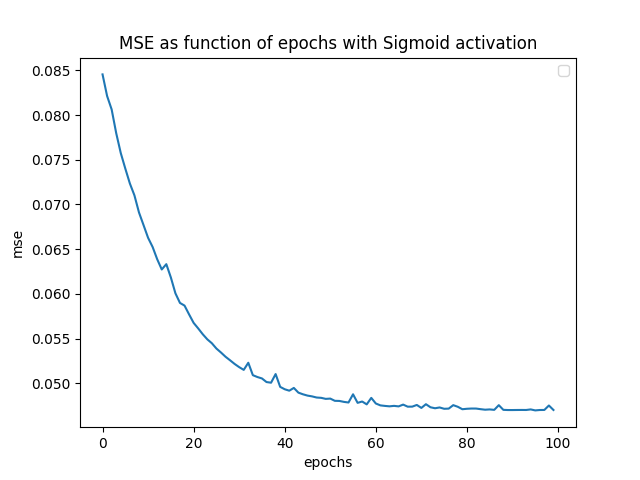
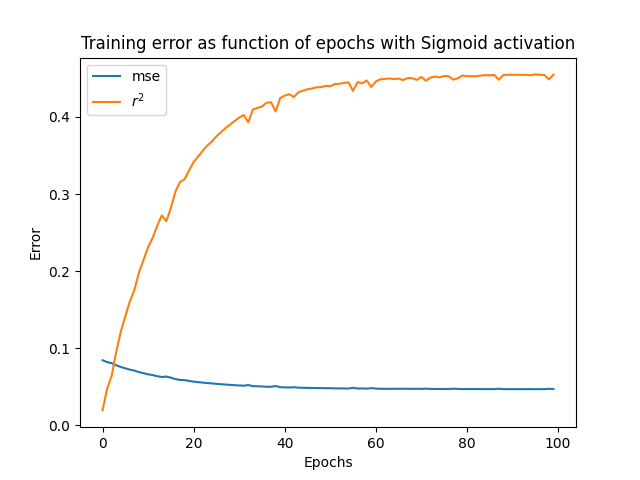
mykjy tull

diff --git a/project2/nnRegression.py b/project2/nnRegression.py
@@ -7,18 +7,23 @@ from sklearn.preprocessing import StandardScaler
 from sklearn.neural_network import MLPRegressor
 import pandas as pd
 import seaborn as sns
+from sklearn.model_selection import KFold
 
 class NN:
     def __init__(self,
                  X_train,
-                 targets,
+                 X_test,
+                 z_train,
+                 z_test,
                  n_hidden_layers,
                  n_hidden_neurons,
                  activation,
                  initilize):
 
         self.X_train = X_train
-        self.t = targets
+        self.X_test = X_test
+        self.z_train = z_train
+        self.z_test = z_test
 
         self.n_inputs, self.n_features = self.X_train.shape
         self.n_outputs = 1  # Binary classification case
@@ -45,6 +50,7 @@ class NN:
         self.biases = self.createBiases()
 
         self.mse = []
+        self.r2 = []
         self.epochs = []
 
     def createWeights(self, init):  # Function for creating weight-arrays for all layers
@@ -173,13 +179,11 @@ class NN:
                     gradient_weigths += self.lmd * self.weights[layer]
                 self.weights[layer] = self.weights[layer] - self.eta * gradient_weigths
                 self.biases[layer] = self.biases[layer] - self.eta * gradient_biases
-                print(gradient_weigths)
             else:
                 gradient_weigths = np.matmul(self.activations[layer-1].T, delta_l)
                 gradient_biases = np.sum(delta_l, axis=0)
                 if (self.lmd > 0.0):
                     gradient_weigths += self.lmd * self.weights[layer]
-                print(gradient_weigths)
                 self.weights[layer] = self.weights[layer] - self.eta * gradient_weigths
                 self.biases[layer] = self.biases[layer] - self.eta * gradient_biases
             return
@@ -201,16 +205,19 @@ class NN:
         i = 0
 
         for epoch in range(n_epochs):
-            mini_batches = self.create_miniBatches(self.X_train, self.t, M)
+            mini_batches = self.create_miniBatches(self.X_train, self.z_train, M)
             for mini_batch in mini_batches:
                 self.xi, self.yi = mini_batch
                 self.feed_forward_train()
                 self.back_propagation()
-            ytilde = self.predict(X_train)
-            mse = mean_squared_error(self.t, ytilde)
+            ytilde = self.predict(self.X_test)
+            mse = mean_squared_error(self.z_test, ytilde)
+            r2 = r2_score(self.z_test, ytilde)
             self.epochs.append(i)
             self.mse.append(mse)
+            self.r2.append(r2)
             i += 1
+            print(i)
 
     def predict(self, X): #Function for predicting a binary classification set
         y = self.feed_forward_predict(X);
@@ -255,6 +262,13 @@ scaler_x = scaler.fit(X_train)  # Scaling x-data
 X_train = scaler_x.transform(X_train)
 X_test = scaler_x.transform(X_test)
 
+"""
+# Initialization if CV is used
+z = (FrankeFunction(xflat, yflat) + 0.15*np.random.randn(N*N))
+X = np.hstack((xflat.reshape(-1,1), yflat.reshape(-1,1)))
+scaler = StandardScaler()
+X = scaler.fit(X).transform(X)
+"""
 # Defining the neural network
 n_hidden_neurons = 40
 n_hidden_layers = 2
@@ -273,65 +287,106 @@ print(r2_score(z_test.reshape(-1,1), yPredict))
 
 
 print("Scikit dnn")
-dnn = MLPRegressor(activation='relu', solver='sgd', alpha=0.000001, batch_size=10, learning_rate_init=0.001, max_iter=1000, random_state=0)
+dnn = MLPRegressor(activation='logistic', solver='sgd', alpha=1e-8, batch_size=10, learning_rate_init=0.001, max_iter=100, random_state=64)
 dnn.fit(X_train, z_train)
 zPredict = dnn.predict(X_test)
 print(mean_squared_error(z_test, zPredict))
 print(r2_score(z_test, zPredict))
-"""
-nn_sig_rand = NN(X_train, z_train, n_hidden_layers, n_hidden_neurons, "Sigmoid", "Xavier")
-nn_sig_rand.train(100, 2, 0.001, 1e-8)
-plt.plot(nn_sig_rand.epochs,nn_sig_rand.mse)
-plt.legend()
-plt.xlabel('epochs')
-plt.ylabel('mse')
-plt.title('MSE as function of epochs with Sigmoid activation')
+
+# MSE as function of epochs with cross-validation and sigmoid activation
+cv_split = 0
+k = 5
+mse = np.zeros((k, 100))
+kfold = KFold(n_splits = k, shuffle=True)
+for train_indexes, test_indexes in kfold.split(X):
+        X_train = X[train_indexes]
+        X_test = X[test_indexes]
+        z_train = z[train_indexes]
+        z_test = z[test_indexes]
+
+        network = NN(X_train, z_train, n_hidden_layers, n_hidden_neurons, "Sigmoid", "Xavier")
+        network.train(100, 10, 0.001, 1e-8)
+        z_pred = network.predict(X_train)
+        mse[cv_split,:] = network.mse
+
+        cv_split += 1
+
+mse = np.mean(mse,axis=0)
+plt.plot(network.epochs, mse)
 plt.show()
-"""
+
+
+# MSE as function of epochs with sigmoid activation
+nn_sig_rand = NN(X_train, X_test, z_train, z_test, n_hidden_layers, n_hidden_neurons, "Sigmoid", "Xavier")
+nn_sig_rand.train(100, 10, 0.01, 1e-6)
+print("MSE: ",nn_sig_rand.mse[-1])
+plt.plot(nn_sig_rand.epochs,nn_sig_rand.mse, label='mse')
+plt.legend()
+plt.xlabel('Epochs')
+plt.ylabel('mse error')
+plt.title('Test mse error as function of epochs with Sigmoid activation')
+plt.show()
+
+# r^2 as function of epochs with sigmoid activation
+nn_sig_rand = NN(X_train, X_test, z_train, z_test, n_hidden_layers, n_hidden_neurons, "Sigmoid", "Xavier")
+nn_sig_rand.train(100, 10, 0.01, 1e-6)
+print("R2: ",nn_sig_rand.r2[-1])
+plt.plot(nn_sig_rand.epochs,nn_sig_rand.r2, label='$r^2$', color='red')
+plt.legend()
+plt.xlabel('Epochs')
+plt.ylabel('Error')
+plt.title('Test $r^2$ error as function of epochs with Sigmoid activation')
+plt.show()
+
+
+# Same, but old version
+epochs = np.arange(100)
+mse_epochs = np.zeros(len(epochs))
+for i in range(len(epochs)):
+    nn = NN(X_train, z_train, n_hidden_layers, n_hidden_neurons, activation, initilize)
+    nn.train(epochs[i], 10, 0.0001, 1e-7)
+    z_pred_epochs = nn.predict(X_test)
+    mse_epochs[i] = mean_squared_error(z_test,z_pred_epochs)
+    print(mse_epochs[i])
+
+plt.plot(epochs,mse_epochs)
+plt.show()
+
+
+
+
 # Gridsearch for eta/lambda
-etas = [0.0001,0.005,0.001,0.005, 0.001]
+etas = [0.0001,0.0005,0.001,0.005, 0.01]
 lambdas = [1e-2, 1e-4, 1e-6, 1e-8]
 #mse_grid_train = np.zeros((len(etas),len(lambdas)))
 mse_grid_test = np.zeros((len(etas),len(lambdas)))
 for i in range(len(etas)):
     for j in range(len(lambdas)):
-        nn = NN(X_train, z_train, n_hidden_layers, n_hidden_neurons, activation, initilize)
+        nn = NN(X_train, X_test, z_train, z_test, n_hidden_layers, n_hidden_neurons, activation, initilize)
         nn.train(100, 10, etas[i], lambdas[j])
         #z_pred = nn.predict(X_train)
         z_pred_test = nn.predict(X_test)
         #mse_grid_train[i,j] = mean_squared_error(z_train,z_pred)
-        mse_grid_test[i,j] = r2_score(z_test,z_pred_test)
+        mse_grid_test[i,j] = mean_squared_error(z_test,z_pred_test)
         print(mse_grid_test[i,j])
 
 #mse_df_train = pd.DataFrame(mse_grid_train, index = etas, columns = lambdas)
 mse_df_test = pd.DataFrame(mse_grid_test, index = etas, columns = lambdas)
 fig, ax = plt.subplots(figsize = (7, 7))
 sns.heatmap(mse_df_test, annot=True, ax=ax, cmap="viridis_r", fmt='.4f')
-ax.set_title("Grid search for learning rate and regularisation parameter")
+ax.set_title("Test error gridsearch")
 ax.set_xlabel("$\lambda$")
 ax.set_ylabel("$\eta$")
 plt.show()
-"""
 
-"""
-epochs = np.arange(100)
-mse_epochs = np.zeros(len(epochs))
-for i in range(len(epochs)):
-    nn = NN(X_train, z_train, n_hidden_layers, n_hidden_neurons, activation, initilize)
-    nn.train(epochs[i], 2, 0.001, 1e-7)
-    z_pred_epochs = nn.predict(X_train)
-    mse_epochs[i] = mean_squared_error(z_train,z_pred_epochs)
-    print(mse_epochs[i])
 
-plt.plot(epochs,mse_epochs)
-"""
 
-"""
+
 # Comparison of Xavier and Random initialisation with Sigmoid activation
-nn_sig_xav = NN(X_train, z_train, n_hidden_layers, n_hidden_neurons, "Sigmoid", "Xavier")
-nn_sig_rand = NN(X_train, z_train, n_hidden_layers, n_hidden_neurons, "Sigmoid", "Random")
-nn_sig_xav.train(100, 2, 0.001, 1e-8)
-nn_sig_rand.train(100, 2, 0.001, 1e-8)
+nn_sig_xav = NN(X_train, X_test, z_train, z_test, n_hidden_layers, n_hidden_neurons, "Sigmoid", "Xavier")
+nn_sig_rand = NN(X_train, X_test, z_train, z_test, n_hidden_layers, n_hidden_neurons, "Sigmoid", "Random")
+nn_sig_xav.train(100, 10, 0.001, 1e-6)
+nn_sig_rand.train(100, 10, 0.001, 1e-6)
 #print(nn.mse)
 #print(nn.epochs)
 print("Lowest mse: ",nn_sig_xav.mse[-1])
@@ -342,20 +397,20 @@ plt.xlabel('epochs')
 plt.ylabel('mse')
 plt.title('MSE as function of epochs with Sigmoid activation')
 plt.show()
-"""
+
 
 """
 # comparison of Sigmoid, Relu, leaku Relu and Elu activation
 #np.random.seed(0)
-nn_sig_xav = NN(X_train, z_train, n_hidden_layers, n_hidden_neurons, "Sigmoid", "Xavier")
-nn_relu_he = NN(X_train, z_train, n_hidden_layers, n_hidden_neurons, "RELU", "He")
-nn_lrelu_he = NN(X_train, z_train, n_hidden_layers, n_hidden_neurons, "leaky-RELU", "He")
-nn_elu_he = NN(X_train, z_train, n_hidden_layers, n_hidden_neurons, "ELU", "He")
+nn_sig_xav = NN(X_train, X_test, z_train, z_test, n_hidden_layers, n_hidden_neurons, "Sigmoid", "Xavier")
+nn_relu_he = NN(X_train, X_test, z_train, z_test, n_hidden_layers, n_hidden_neurons, "RELU", "He")
+nn_lrelu_he = NN(X_train, X_test, z_train, z_test, n_hidden_layers, n_hidden_neurons, "leaky-RELU", "He")
+nn_elu_he = NN(X_train, X_test, z_train, z_test, n_hidden_layers, n_hidden_neurons, "ELU", "He")
 
-nn_sig_xav.train(100, 10, 0.001, 1e-8)
-nn_relu_he.train(100, 10, 0.001, 1e-8)
-nn_lrelu_he.train(100, 10, 0.001, 1e-8)
-nn_elu_he.train(100, 10, 0.001, 1e-8)
+nn_sig_xav.train(200, 10, 0.0005, 1e-6)
+nn_relu_he.train(200, 10, 0.0005, 1e-6)
+nn_lrelu_he.train(200, 10, 0.0005, 1e-6)
+nn_elu_he.train(200, 10, 0.0005, 1e-6)
 #print(nn.mse)
 #print(nn.epochs)
 print("Lowest mse sigmoid: ",nn_sig_xav.mse[-1])
@@ -369,11 +424,25 @@ plt.plot(nn_elu_he.epochs,nn_elu_he.mse, label='Elu & He')
 plt.legend()
 plt.xlabel('epochs')
 plt.ylabel('mse')
-plt.title('MSE as function of epochs: Sigmoid vs Relu')
+plt.title('MSE as function of epochs: Comparison of different activations')
+plt.show()
+
+print("Lowest $r^2$ Sigmoid: ",nn_sig_xav.r2[-1])
+print("Lowest $r^2$ Relu: ",nn_relu_he.r2[-1])
+print("Lowest $r^2$ lRelu: ",nn_lrelu_he.r2[-1])
+print("Lowest $r^2$ ELU: ",nn_elu_he.r2[-1])
+plt.plot(nn_sig_xav.epochs,nn_sig_xav.r2, label='Sigmoid & Xavier')
+plt.plot(nn_relu_he.epochs,nn_relu_he.r2, label='Relu & He')
+plt.plot(nn_lrelu_he.epochs,nn_lrelu_he.r2, label='Leaky-relu & He')
+plt.plot(nn_elu_he.epochs,nn_elu_he.r2, label='Elu & He')
+plt.legend()
+plt.xlabel('epochs')
+plt.ylabel('$r^2 score$')
+plt.title('$r^2$ score as function of epochs: Comparison of different activations')
 plt.show()
 """
 
-"""
+
 neurons = [10, 20, 30, 40, 50, 60, 70, 80, 90, 100]
 layers = [1, 2, 3, 4]
 for i in range(len(neurons)):
